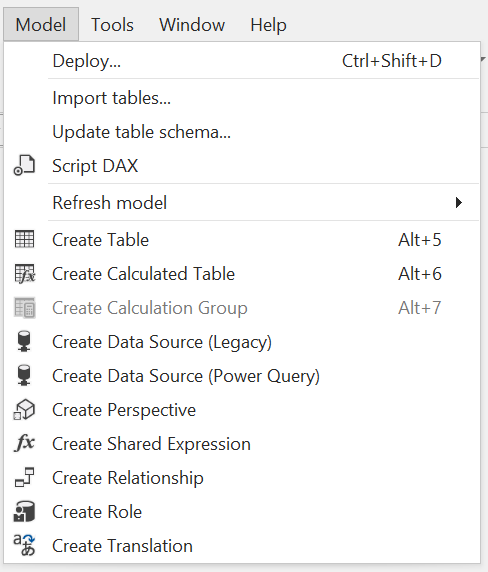
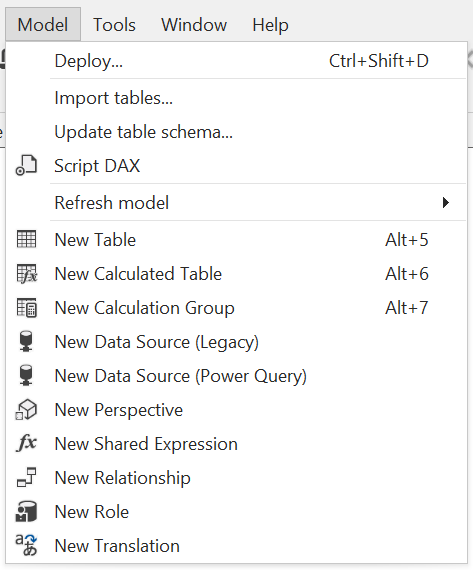
Fixed typos, updated screenshots

diff --git a/index.md b/index.md
@@ -1,4 +1,10 @@
-# Tabular Editor
+---
+uid: index
+title: Tabular Editor
+author: Daniel Otykier
+updated: 2021-09-09
+---
+# Tabular Editor
 
 Tabular Editor is a tool that lets you easily manipulate and manage measures, calculated columns, display folders, perspectives and translations in Analysis Services Tabular and Power BI Models.
 
@@ -16,11 +22,11 @@ Tabular Editor 3 is the evolution of Tabular Editor 2. It has been designed for 
 
 ### Common features
 
-Both tools provide the same features in terms of which data modeling options are available, by basically exposing every object and property of the [AMO/TOM client library created by Microsoft](https://docs.microsoft.com/en-us/analysis-services/tom/introduction-to-the-tabular-object-model-tom-in-analysis-services-amo?view=asallproducts-allversions), in an intuitive and responsive user interface. You can edit advanced object properties that are not available through the standard tools. The tools can load model metadata from files or from any instance of Analysis Services. Changes are only synchronized when you hit Ctrl+S (save) thus providing an "offline" editing experience which most people consider to be superior to the "always synchronized"-mode of the standard tools. This is especially noticable when working on large and complex data models.
+Both tools provide the same features in terms of which data modeling options are available, by basically exposing every object and property of the [Tabular Object Model](https://docs.microsoft.com/en-us/analysis-services/tom/introduction-to-the-tabular-object-model-tom-in-analysis-services-amo?view=asallproducts-allversions), in an intuitive and responsive user interface. You can edit advanced object properties that are not available through the standard tools. The tools can load model metadata from files or from any instance of Analysis Services. Changes are only synchronized when you hit Ctrl+S (save) thus providing an "offline" editing experience which most people consider to be superior to the "always synchronized"-mode of the standard tools. This is especially noticable when working on large and complex data models.
 
 In addition, both tools enables making multiple model metadata changes in batches, renaming objects in batches, copy/pasting objects, dragging/dropping objects across tables and display folders, etc. The tools even have undo/redo support.
 
-Both tools feature the Best Practice Analyzer, which continuously scans the model metadata for rules that can define on your own, e.g. to enforce certain naming conventions, make sure non-dimension attribute columns are always hidden, etc.
+Both tools feature the Best Practice Analyzer, which continuously scans the model metadata for rules that you can define on your own, e.g. to enforce certain naming conventions, make sure non-dimension attribute columns are always hidden, etc.
 
 You can also write and execute C#-style scripts in both tools, for automating repetitive tasks such as generating time-intelligence measures and auto-detecting relationships based on column names.
 

diff --git a/te3/editions.md b/te3/editions.md
@@ -2,7 +2,7 @@
 uid: editions
 title: Compare editions
 author: Søren Toft Joensen
-updated: 2021-07-10
+updated: 2021-09-09
 ---
 # Tabular Editor 3 Editions
 
@@ -13,9 +13,12 @@ This document provides an overview and comparison of the different editions of T
 The main difference between the various editions of Tabular Editor 3, is which types of tabular data modelling scenarios they support. To understand this difference, consider that Analysis Services (Tabular) exists in a number of different "flavors":
 
 - Power BI Desktop
-- Power BI Premium through the XMLA Endpoint (Premium Per User or **Premium/Embedded Capacity gen1/gen2**)
+- Power BI Premium through the XMLA Endpoint (Premium Per User or **Premium Capacity [A, EM or P SKUs]**)
 - SQL Server (2016+) Analysis Services (Editions: Developer, Standard, **Enterprise**)
 - Azure Analysis Services (Tiers: Developer, Basic, **Standard**)
+
+> [!IMPORTANT]
+> Tabular Editor only allows editing data models using Compatibility Level 1200 or higher. This is the default on any instance of Analysis Services starting from SQL Server 2016.
 
 We consider the **highlighted** flavors of Analysis Services to be Enterprise-Tier, and as such, these may only be used with Tabular Editor 3 Enterprise Edition. Please refer to the matrix below for the full overview of supported scenarios:
 
@@ -58,6 +61,9 @@ There are no feature differences across the Tabular Editor 3 editions for Power 
 > [!NOTE]
 > Please keep in mind that Power BI Desktop [currently does not support all Data Modelling operations](https://docs.microsoft.com/en-us/power-bi/transform-model/desktop-external-tools#data-modeling-operations). For this reason, Tabular Editor 3 by default blocks operations that are not supported by Power BI Desktop. However, this restriction can be removed under Tools > Preferences > Power BI.
 
+> [!IMPORTANT]
+> Tabular Editor can only be used as an external tool for Power BI Desktop when the Power BI report (.pbix or .pbit) file contains a data model (Import, DirectQuery or Composite). **Reports using Live connection are not supported** since these reports do not contain a data model.
+
 ## Personal vs. Transferable licenses
 
 Our Desktop Edition and Business Edition uses a personal licensing model. This means, that a user receives their own personal License Key, which can not be shared or transferred to other users. When a user no longer requires the product, their subscription should be cancelled to avoid recurring payments.
@@ -88,7 +94,7 @@ Our Enterprise Edition is priced in tiers, according to the following table (sim
 
 As an example, if you need 12 seats, the price breaks down as follow:
 
-```
+```text
 Seats 1-5:    5 x 950.00 = $  4,750.00
 Seats 6-10:   5 x 900.00 = $  4,500.00
 Seats 11-12:  2 x 850.00 = $  1,700.00
